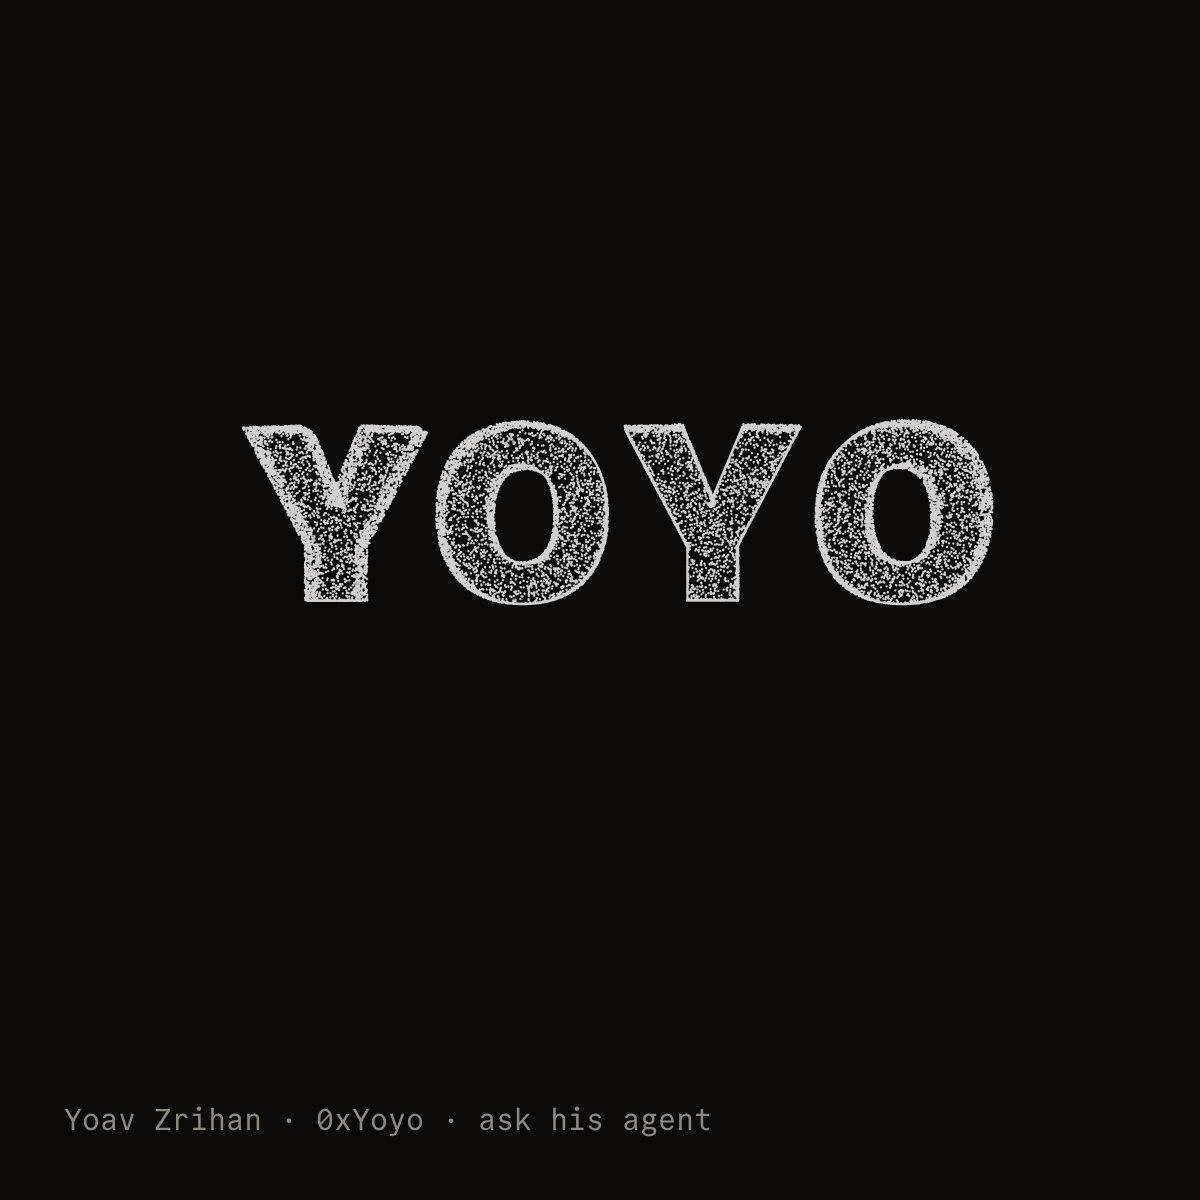
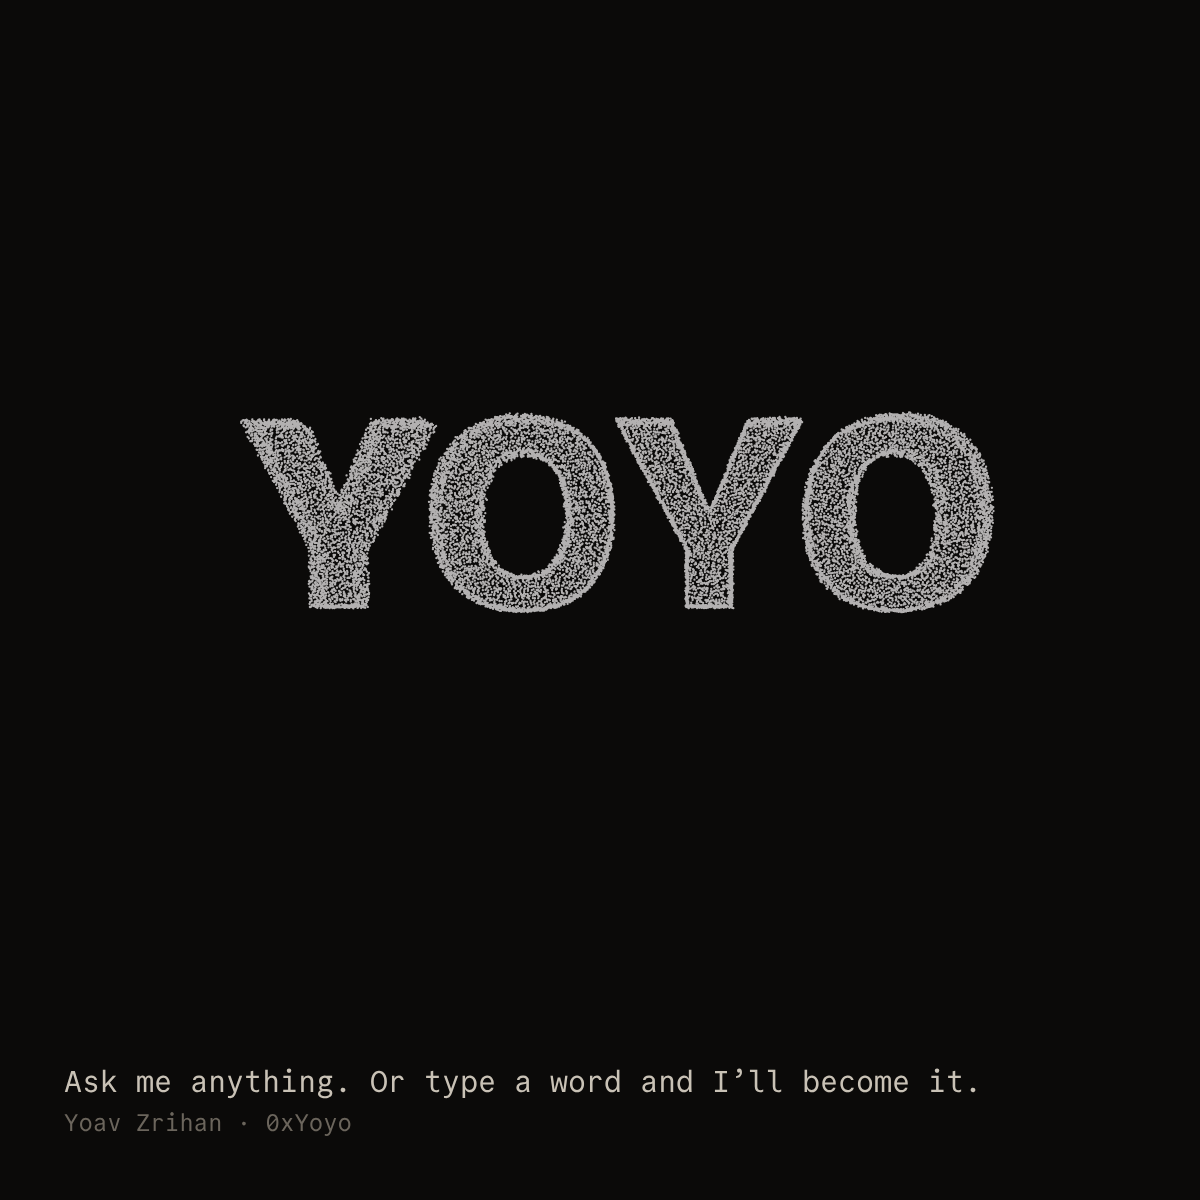
Page title "Yoyo"; description, og and twitter text first person ("Ask me anything. Or type a word and I'll become it."); og.png and og-square.png regenerated from the swarm with that line over the fainter name line (WAVE3 S4)
Claude-Session: https://claude.ai/code/session_01TGVWgpSBYyhpQ9KT8fj8Jr

diff --git a/apps/web/index.html b/apps/web/index.html
@@ -3,18 +3,19 @@
   <head>
     <meta charset="UTF-8" />
     <meta name="viewport" content="width=device-width, initial-scale=1, viewport-fit=cover" />
-    <title>Yoyo — ask his agent</title>
-    <meta name="description" content="Meet Yoav “Yoyo” Zrihan’s agent. Ask it anything about him, tell it what to become, or have it build you something." />
+    <title>Yoyo</title>
+    <meta name="description" content="Ask me anything. Or type a word and I’ll become it." />
     <meta name="theme-color" content="#0B0A09" />
     <link rel="icon" href="/favicon.svg" type="image/svg+xml" />
     <meta property="og:type" content="website" />
-    <meta property="og:title" content="Yoyo — ask his agent" />
-    <meta property="og:description" content="Meet Yoav “Yoyo” Zrihan’s agent. Ask it anything, tell it what to become, or have it build you something." />
+    <meta property="og:title" content="Yoyo" />
+    <meta property="og:description" content="Ask me anything. Or type a word and I’ll become it." />
     <meta property="og:image" content="/og.png" />
     <meta property="og:image:width" content="1200" />
     <meta property="og:image:height" content="630" />
     <meta name="twitter:card" content="summary_large_image" />
-    <meta name="twitter:title" content="Yoyo — ask his agent" />
+    <meta name="twitter:title" content="Yoyo" />
+    <meta name="twitter:description" content="Ask me anything. Or type a word and I’ll become it." />
     <meta name="twitter:image" content="/og.png" />
     <style>html,body{margin:0;background:#0B0A09;color:#F4EFE6}html[data-scene="light"],html[data-scene="light"] body{background:#EDEAE3;color:#171411}</style>
   </head>
